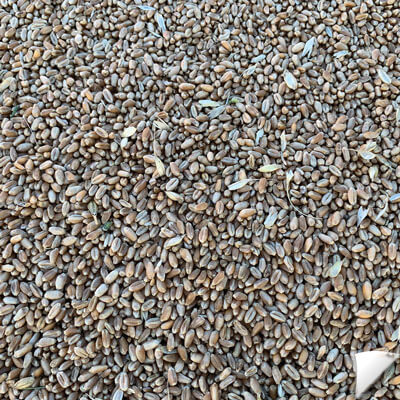
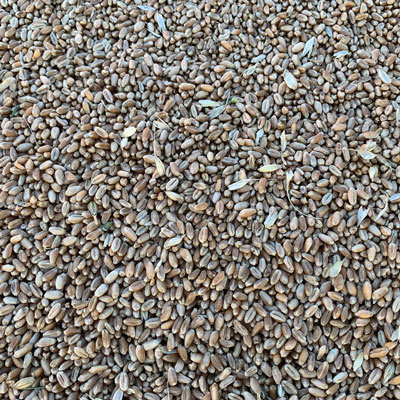
win update

Changed region(s): [[0.87, 0.87, 1.0, 1.0]]

diff --git a/css/modern-business.css b/css/modern-business.css
@@ -356,8 +356,8 @@ body {
 
 .image-flip {
   margin-bottom: 10px;
-  width: 14vw;
-  height: 14vw;
+  width: 18vw;
+  height: 18vw;
 }
 
 /* make products cards scale with size */
